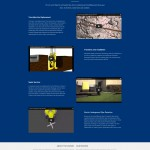
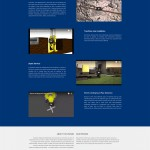
Add more custom post for Latest Work Page, fix CSS

diff --git a/wp-content/themes/pixelwebsource/css/responsive-px.css b/wp-content/themes/pixelwebsource/css/responsive-px.css
@@ -55,25 +55,23 @@
 	.zero-pixel	.cover-px p span{
 		font-family: pacificoregular;
 	}
-/* end normal form */
-/* about */
-	.about .cover-container .inner h2 {
-		font: 41px ralewayregular;
-		text-align: center;
-		color: #000;
-		margin-top: -20%;
-	}
 
-/* design */
+	/* About Page */
+	.about .cover-container .inner h2 { font: 41px ralewayregular; text-align: center; color: #000; margin-top: -20%; }
+
+	/* Design Page */
 	.design .pixel-wrapper{ background-size: cover; }
+	.design .zero-pixel .site-left h2, .marketing .zero-pixel .site-left h2 { font: 60px/60px "pacificoregular"; }
 	.design .pixel-01 { background: url(../photos/design-px-px2.jpg) 30% center no-repeat; -webkit-background-size: cover; -moz-background-size: cover; background-size: cover; }
 
-/* latest work */
-	.lastestwork #works-wrap #works{
-		width: 98%;
-	}
+	/* Partnership Page */
+	.partnership .cover-container .inner h2 { font: 60px/60px "pacificoregular"; }
+	
+	/* latest work */
+	.lastestwork #works-wrap #works{ width: 1200px; }
+	.lastestwork .zero-pixel .site-wrapper #works .cover-heading { font: 60px/60px "pacificoregular"; }
 
-/* price */
+	/* price */
 	.price .cover-container {
 	    width: 75%;
 	    margin: 0 auto;
@@ -94,9 +92,7 @@
 	.center-vertical{
 		margin-top: 0;
 	}
-	.price .zero-pixel h1 {
-	    font: 60px/60px "pacificoregular";
-	}
+	.price .zero-pixel h1 { font: 60px/60px "pacificoregular"; }
 	.price .zero-pixel .site-left p{
 		font: 30px/36px ralewayregular;
 	}
@@ -163,7 +159,7 @@
 	.price .item-price ul li.sn{
 		background-image: url(../images/price/11.png);
 	}
-/* end price */
+
 /* blog */
 	.blog .cover-container{
 		width: 95%;
@@ -171,7 +167,9 @@
 	.blog .scroll-down{
 		display: none;
 	}
-/* end blog */
+
+	/* Contact Page */
+	.contact .cover-heading { font: 60px/60px "pacificoregular"; }
 }
 @media (min-width: 1200px) {
 	/* Design Page */
@@ -179,8 +177,9 @@
 }
 
 @media (max-width: 1200px) {
-	/* latest work page */
+	/* Latest Work Page */
 	.masonry { -moz-column-count: 3; -webkit-column-count: 3; column-count: 3; }
+	.lastestwork #works-wrap #works{ width: 1100px; }
 
 	.price .cover-container{ width: 90%; }
 
@@ -192,6 +191,9 @@
 	/* marketing page */
 	.marketing .pixel-04{ background-position: 80% 25%; }
 
+	/* latest work */
+	.lastestwork #works-wrap #works{ width: 100%; }
+
 	/* price page */
 	.price .zero-pixel h1{
 		margin-top: 12%;
@@ -200,6 +202,8 @@
 
 
 @media (max-width: 1027px) {
+	/* latest work */
+	.lastestwork #works-wrap #works{ width: 100%; }
 
 	/* animation */
 	.moveRightToLeft{

diff --git a/wp-content/themes/pixelwebsource/css/about.css b/wp-content/themes/pixelwebsource/css/about.css
@@ -485,7 +485,7 @@ _:-ms-fullscreen, :root #contact-form div input#conactSubmit{
 	background: #e5f1ca;
 }
 #works-wrap #works {
-	width: 70%;
+	width: 1200px;
 	margin: 0 auto;
 	position: relative;
 }
@@ -500,7 +500,7 @@ _:-ms-fullscreen, :root #contact-form div input#conactSubmit{
 	background-color: #fff;
 }
 .lastestwork .zero-pixel .site-wrapper #works .cover-heading {
-    font: 60px/60px "pacificoregular";
+    font: 80px/80px "pacificoregular";
     color: #000;
     margin: 60px 0;
 }
@@ -513,17 +513,15 @@ _:-ms-fullscreen, :root #contact-form div input#conactSubmit{
 	/*padding: 0;*/
 }
 #works ul li{
-	/*width: 25%;
-	float: left;*/
 	list-style-type: none;
-	/*padding: 0 10px;*/
+	padding-top: 10px;
 } 
 #works ul li article{
 	padding: 12px 0 0 0;
 	border-radius: 8px;
 	background-color: #fff;
 	border: 1px solid #cdcdcd;
-	margin-bottom: 20px;
+	margin-bottom: 5px;
 }
 #works ul li article:hover{
 	-webkit-box-shadow:0 0 10px rgba(0, 0, 0, 0.5);
@@ -577,7 +575,7 @@ _:-ms-fullscreen, :root #contact-form div input#conactSubmit{
 }
 #works ul li article footer .copyright p{
 	text-transform: uppercase;
-	font: 13px/13px ralewaybold;
+	font: 11px/13px ralewaybold;
 	color: #666;
 	margin-top: 24px;
 	float: left;
@@ -638,11 +636,9 @@ _:-ms-fullscreen, :root #contact-form div input#conactSubmit{
     -webkit-column-count: 4;
     column-count: 4;
 }
-
 .masonry .item {
     display: inline-block;
     padding: 0;
-    width: 98%;
     box-sizing: border-box;
     -moz-box-sizing: border-box;
     -webkit-box-sizing: border-box;
@@ -667,6 +663,7 @@ _:-ms-fullscreen, :root #contact-form div input#conactSubmit{
 }
 .partnership .cover-container .inner h2 {
 	margin-top: 18%;
+	font: 80px/80px pacificoregular;
 }
 .partnership .pixel-01 h2,.partnership .pixel-02 h2{
 	margin-top: -10%;

diff --git a/wp-content/themes/pixelwebsource/js/pixelwebsource.js b/wp-content/themes/pixelwebsource/js/pixelwebsource.js
@@ -305,13 +305,13 @@ jQuery(function($){
 			
 			/* Design Page */
 			$('.design .zero-pixel').css({'min-height':'700'});
-			// $('.design .zero-pixel .site-right img').css({'width':'70%'});
+			$('.design .zero-pixel .site-right img').css({'width':'70%'});
 		}else{
 			/* Home Page */
 			$('.px-main .cover-px .inner').css({'margin-top':'70px'});
 
 			/* Design Page */
-			// $('.design .zero-pixel .site-right img').css({'width':''});
+			$('.design .zero-pixel .site-right img').css({'width':''});
 		}
 	}); // window.resize()
 
@@ -321,12 +321,13 @@ jQuery(function($){
 		$('#works ul li article .wrapper-img a').click(function(e){
 			e.preventDefault()
 			var getSRC = $(this).children().attr('src')
-			console.log(getSRC)
+
 			$('.zoom-wrapper').addClass('show')
-	
 			$('.zoom-wrapper ul li').append('<img src="'+getSRC+'" alt="" />').addClass('show')
 			$('.portfolio-btn').addClass('show')
 			$('.ablack').addClass('show')
+
+			$('html,body').animate({scrollTop:$('.site-wrapper').offset().top},'fast');
 		})
 	}
 

diff --git a/wp-content/themes/pixelwebsource/bootstrap-3.3.4-dist/css/cover.css b/wp-content/themes/pixelwebsource/bootstrap-3.3.4-dist/css/cover.css
@@ -154,7 +154,7 @@ body {
   .px-main .pixel-01 .site-wrapper-inner,
   .px-main .pixel-02 .site-wrapper-inner,
   .px-main .pixel-03 .site-wrapper-inner {
-    vertical-align: top;
+    /*vertical-align: top;*/
   }
   /* Handle the widths */
   .masthead,

diff --git a/wp-content/themes/pixelwebsource/template-parts/content-lastestwork.php b/wp-content/themes/pixelwebsource/template-parts/content-lastestwork.php
@@ -20,7 +20,7 @@
             				<p class="title"><?php the_title(); ?></p>
             			</header>
             			<div class="wrapper-img">
-            				<a href="#">
+            				<a href="">
 								<?php
 
 								// check for featured image
@@ -35,7 +35,9 @@
 							</a>
             			</div>
             			<footer>
+                            <?php if (get_field('button_text') == "visit website") { ?>
             				<a href="<?php the_field('button_url'); ?>"><?php the_field('button_text'); ?></a>
+                            <?php } ?>
             				<div class="copyright">
             					<a href="http://www.pixelwebsource.com/"></a>
             					<p>designed by pixelwebsource</p>

diff --git a/wp-content/themes/pixelwebsource/footer.php b/wp-content/themes/pixelwebsource/footer.php
@@ -9,6 +9,10 @@
  * @package Pixelwebsource_Theme
  */
 
+// Custom Fields for Page, or Single Post
+if ( is_page() ) {
+	$main_class	= get_post_meta( $post->ID, 'main_class', true );
+}
 ?>
 
 <?php wp_footer(); ?>
@@ -58,6 +62,18 @@
 	        </div>
 	    </div><!-- form-wrap -->
 	</div><!-- request_form -->
+
+	<?php if($main_class == 'lastestwork'){ ?>
+	<!-- zoom photos -->
+	<div class="zoom-wrapper">
+		<ul>
+			<li></li>
+		</ul>
+	</div>
+	<div class="portfolio-btn glyphicon glyphicon-remove-sign"></div>
+	<div class="ablack"></div>
+	<!-- end zoom photos -->
+	<?php } ?>
 
 <script src="<?php bloginfo('template_directory'); ?>/js/forkit.js"></script>
     

diff --git a/wp-content/themes/pixelwebsource/template-parts/content-privacy.php b/wp-content/themes/pixelwebsource/template-parts/content-privacy.php
@@ -2,11 +2,11 @@
   	<div class="site-wrapper-inner">
         <div class="cover-container">
 	        <div class="inner cover">
-				<?php while ( have_posts() ) : the_post(); ?>
+  				<?php while ( have_posts() ) : the_post(); ?>
 
-            	<?php the_content(); ?>
-            	
-				<?php endwhile; wp_reset_query(); ?>
+              	<?php the_content(); ?>
+              	
+  				<?php endwhile; wp_reset_query(); ?>
 	        </div><!-- inner -->
         </div><!-- cover-container -->
   	</div><!-- site-wrapper-inner -->

diff --git a/wp-content/themes/pixelwebsource/header.php b/wp-content/themes/pixelwebsource/header.php
@@ -169,7 +169,7 @@ if($main_class == "price"){ ?>
 					get_template_part('template-parts/content','pricing');
 				}else if($main_class == 'contact'){
 					get_template_part('template-parts/content','contact');
-				}else if($main_class == 'privacy' || $main_class == 'term'){
+				}else if($main_class == 'thankyou' || $main_class == 'privacy' || $main_class == 'term'){
 					get_template_part('template-parts/content','privacy');
 				}
 			?>
